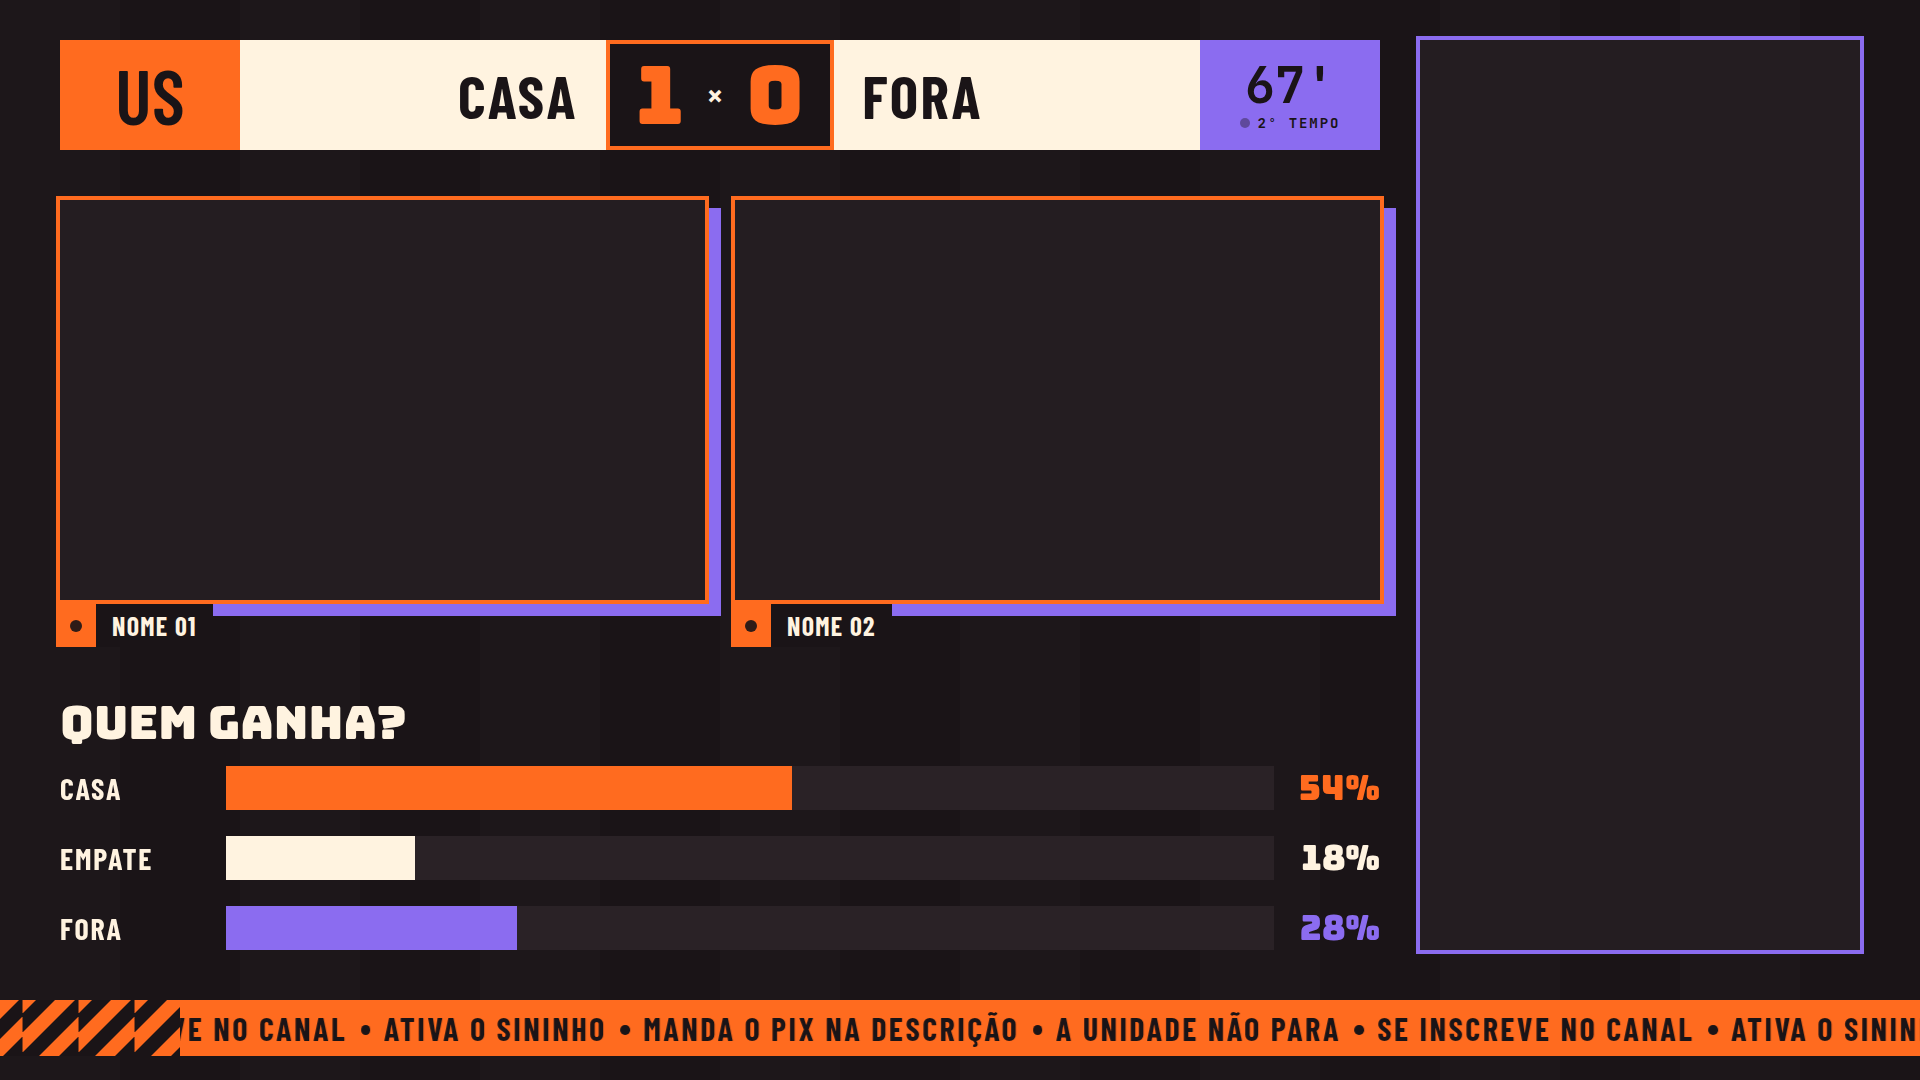
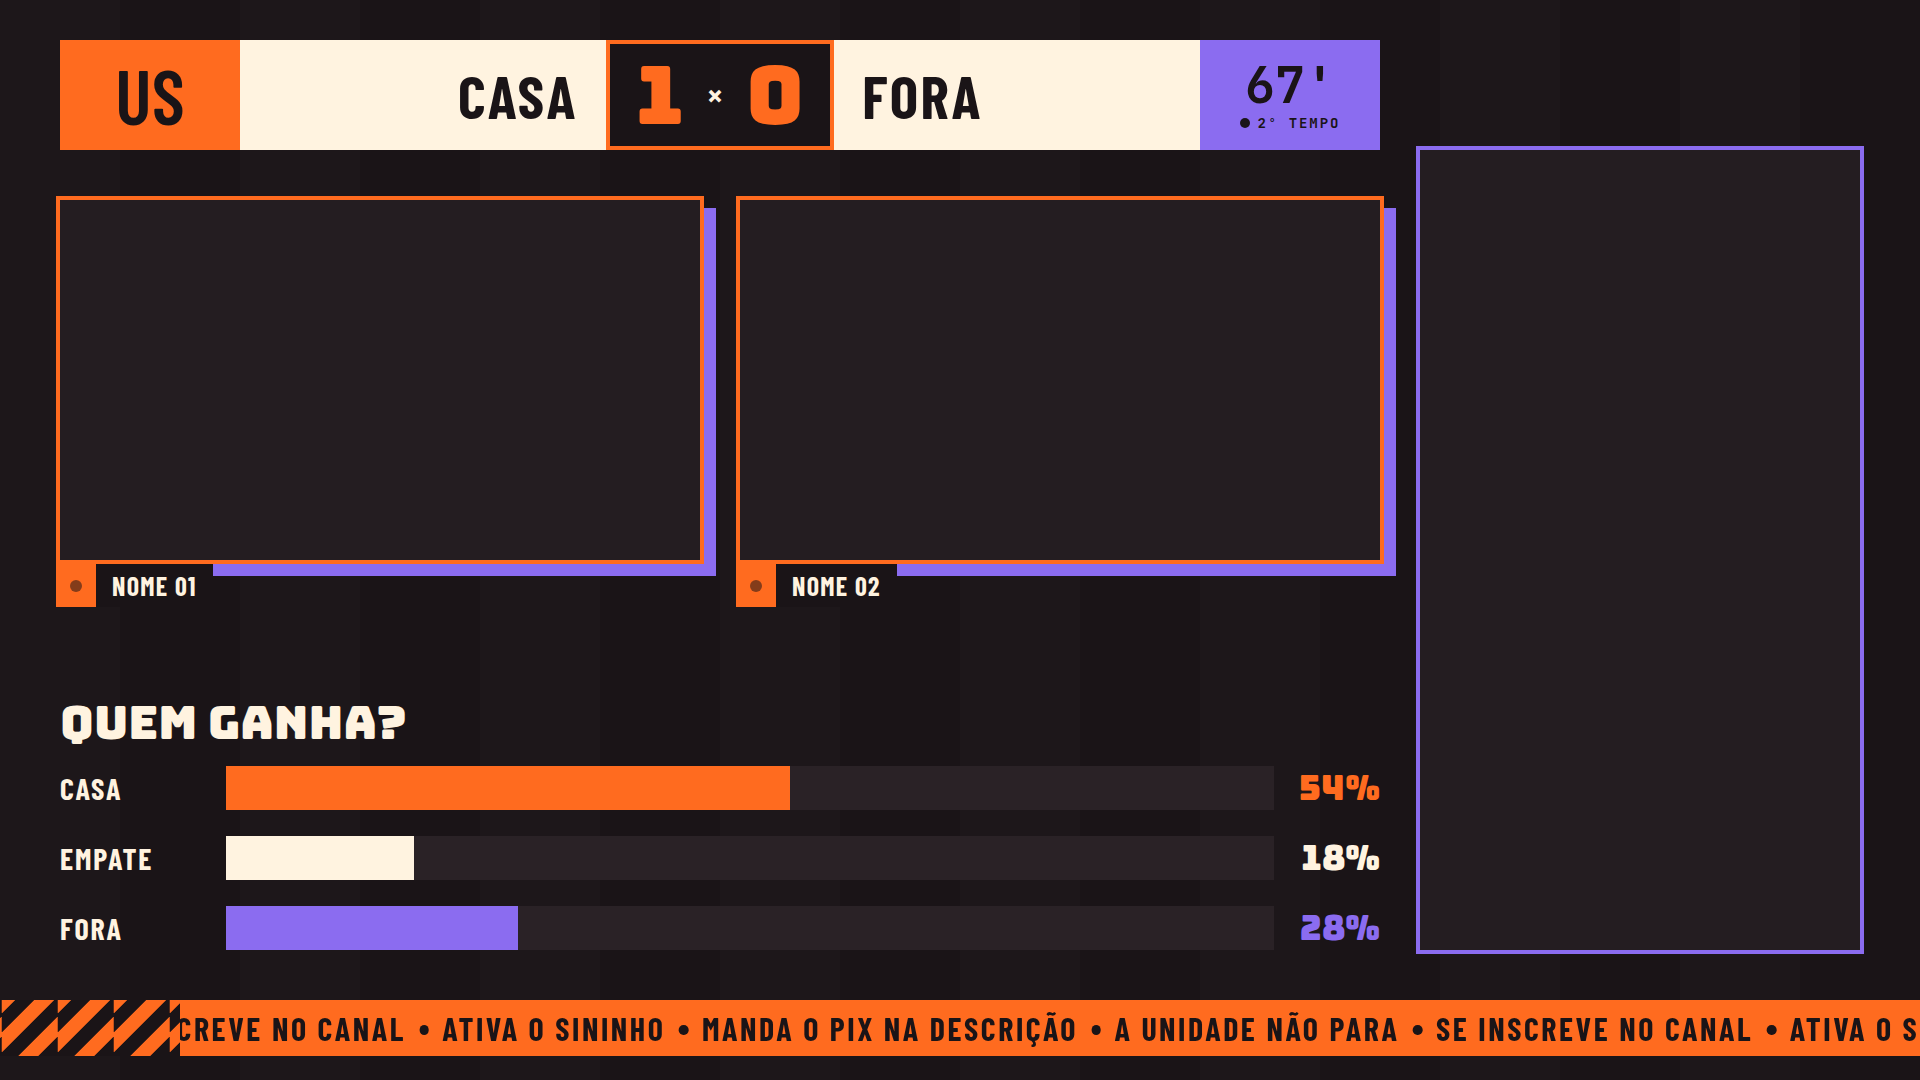
feat(telas): câmeras em 16:9 (Host, Futebol, Filme, Mesa) e chat 440×800 em Host, Futebol e Filme
Futebol sem enquete: câmeras 640×360 centralizadas (a etiqueta dentro da câmera sai).
Teste novo confere 16:9 exato, sem sobreposição, e chat 440×800 em todas as variações.

diff --git a/src/telas/proporcoes.test.tsx b/src/telas/proporcoes.test.tsx
@@ -1,0 +1,45 @@
+import { describe, expect, it } from 'vitest';
+import { render } from '@testing-library/react';
+import type { ReactElement } from 'react';
+import { ESTADO_PADRAO, type EstadoLive } from '../live/tipos';
+import { TelaHost } from './TelaHost';
+import { TelaFutebol } from './TelaFutebol';
+import { TelaFilme } from './TelaFilme';
+import { TelaMesa } from './TelaMesa';
+
+// Pedido do usuário: toda moldura de câmera por dentro em 16:9 (a webcam entra sem corte nem faixa)
+// e o chat de Host, Futebol e Filme com 440×800 por dentro.
+const px = (v: string) => Number(v.replace('px', ''));
+const medidas = (c: HTMLElement, sel: string) =>
+  [...c.querySelectorAll<HTMLElement>(sel)].map((e) => ({ w: px(e.style.width), h: px(e.style.height), x: px(e.style.left), y: px(e.style.top) }));
+
+const CASOS: [string, (e: EstadoLive) => ReactElement, Partial<EstadoLive>, number][] = [
+  ['host 1 câmera', (e) => <TelaHost estado={e} />, { hostCams: '1' }, 1],
+  ['host 2 câmeras', (e) => <TelaHost estado={e} />, { hostCams: '2' }, 2],
+  ['host 3 câmeras', (e) => <TelaHost estado={e} />, { hostCams: '3' }, 3],
+  ['futebol com enquete', (e) => <TelaFutebol estado={e} />, { enquete: { casa: 1, empate: 1, fora: 1, mostrar: true } }, 2],
+  ['futebol sem enquete', (e) => <TelaFutebol estado={e} />, { enquete: { casa: 1, empate: 1, fora: 1, mostrar: false } }, 2],
+  ['filme', (e) => <TelaFilme estado={e} />, {}, 4],
+  ['mesa', (e) => <TelaMesa estado={e} />, {}, 6],
+];
+
+describe('proporções', () => {
+  it.each(CASOS)('%s: câmeras em 16:9 exato, dentro da tela, sem sobrepor', (_, tela, extra, qtd) => {
+    const { container } = render(tela({ ...ESTADO_PADRAO, ...extra }));
+    const cams = medidas(container, '.t-slot');
+    expect(cams).toHaveLength(qtd);
+    for (const c of cams) {
+      expect(c.w * 9).toBe(c.h * 16);
+      expect(c.x + c.w).toBeLessThanOrEqual(1860);
+      expect(c.y + c.h).toBeLessThanOrEqual(1000);
+    }
+    for (const a of cams)
+      for (const b of cams)
+        if (a !== b) expect(a.x + a.w <= b.x || b.x + b.w <= a.x || a.y + a.h <= b.y || b.y + b.h <= a.y).toBe(true);
+  });
+
+  it.each(CASOS.filter(([n]) => !n.startsWith('mesa')))('%s: chat 440×800', (_, tela, extra) => {
+    const { container } = render(tela({ ...ESTADO_PADRAO, ...extra }));
+    expect(medidas(container, '.t-chat, .t-caixa-chat').map(({ w, h }) => `${w}×${h}`)).toEqual(['440×800']);
+  });
+});

diff --git a/src/telas/telas.css b/src/telas/telas.css
@@ -40,7 +40,6 @@
 .t-slot { position: absolute; background: #241d21; box-shadow: 0 0 0 4px #FF6B1F, 12px 12px 0 4px #8B6CF0; display: flex; align-items: center; justify-content: center; }
 .t-slot__placeholder { font: 700 18px/1 'JetBrains Mono', monospace; letter-spacing: 0.14em; color: #4a3f44; }
 .t-slot__tag { position: absolute; left: -4px; top: calc(100% + 4px); display: flex; align-items: stretch; }
-.t-slot__tag--dentro { left: 0; top: auto; bottom: 0; }
 .t-slot__led-box { width: 40px; background: #FF6B1F; display: flex; align-items: center; justify-content: center; }
 .t-slot__led { width: 12px; height: 12px; border-radius: 50%; background: #1A1417; animation: usBlink 1.4s ease-in-out infinite; }
 .t-slot__nome { background: #1A1417; color: #FFF3E0; font: 700 26px/1 'Barlow Condensed', sans-serif; letter-spacing: 0.05em; text-transform: uppercase; padding: 9px 16px 8px; }
@@ -135,7 +134,7 @@
 
 /* ===== Host (Telas Live linhas 104-153) ===== */
 .t-host__titulo { letter-spacing: .02em; }
-.t-host__pix { position: absolute; left: 1014px; top: 150px; width: 346px; height: 520px; box-sizing: border-box; background: #FF6B1F; padding: 28px 24px; display: flex; flex-direction: column; align-items: center; justify-content: space-between; }
+.t-host__pix { position: absolute; left: 1014px; top: 150px; width: 346px; height: 522px; box-sizing: border-box; background: #FF6B1F; padding: 28px 24px; display: flex; flex-direction: column; align-items: center; justify-content: space-between; }
 .t-host__pix-titulo { font: 400 38px/1.05 'Bungee', sans-serif; color: #1A1417; text-align: center; }
 .t-host__qr { flex-shrink: 0; width: 240px; height: 320px; background: #FFF3E0; box-shadow: 8px 8px 0 #1A1417; display: flex; align-items: center; justify-content: center; font: 700 15px/1 'JetBrains Mono', monospace; letter-spacing: .16em; color: #8a7f84; }
 .t-host__pix-link { font: 700 15px/1 'JetBrains Mono', monospace; letter-spacing: .16em; color: #1A1417; text-align: center; line-height: 1.35; }

diff --git a/src/telas/TelaFutebol.tsx b/src/telas/TelaFutebol.tsx
@@ -8,7 +8,8 @@ const pct = (v: number) => Math.min(100, Math.max(0, Number(v) || 0)) + '%';
 
 export function TelaFutebol({ estado, previa }: PropsTela) {
   const { enquete } = estado;
-  const alturaCam = enquete.mostrar ? 400 : 750;
+  // câmeras 16:9; sem a enquete ficam centralizadas no espaço que ela deixa
+  const yCam = enquete.mostrar ? 200 : 370;
   const opcoes: [string, number, string, string][] = [
     [estado.timeA, enquete.casa, '#FF6B1F', '0s'],
     ['EMPATE', enquete.empate, '#FFF3E0', '.15s'],
@@ -35,10 +36,8 @@ export function TelaFutebol({ estado, previa }: PropsTela) {
           </div>
         </div>
       </div>
-      {/* sem a enquete, as câmeras ocupam a área toda até 950 (em pé, não 16:9: decisão do usuário)
-          e a etiqueta de nome entra no quadro para não encostar no letreiro */}
-      <SlotCamera nome={estado.nomes[0] || 'NOME 01'} w={645} h={alturaCam} x={60} y={200} previa={previa} etiquetaDentro={!enquete.mostrar} />
-      <SlotCamera nome={estado.nomes[1] || 'NOME 02'} w={645} h={alturaCam} x={735} y={200} previa={previa} etiquetaDentro={!enquete.mostrar} />
+      <SlotCamera nome={estado.nomes[0] || 'NOME 01'} w={640} h={360} x={60} y={yCam} previa={previa} />
+      <SlotCamera nome={estado.nomes[1] || 'NOME 02'} w={640} h={360} x={740} y={yCam} previa={previa} />
       {enquete.mostrar && (
         <div className="t-futebol__enquete">
           <div className="t-futebol__enquete-titulo">QUEM GANHA?</div>
@@ -55,8 +54,8 @@ export function TelaFutebol({ estado, previa }: PropsTela) {
           ))}
         </div>
       )}
-      <div className="t-caixa-chat" style={{ left: 1420, top: 40, width: 440, height: 910 }}>
-        {previa && 'CHAT · 440×910'}
+      <div className="t-caixa-chat" style={{ left: 1420, top: 150, width: 440, height: 800 }}>
+        {previa && 'CHAT · 440×800'}
       </div>
       <FaixaTicker ticker={estado.ticker} />
     </div>

diff --git a/src/telas/telas-jogo.test.tsx b/src/telas/telas-jogo.test.tsx
@@ -30,23 +30,14 @@ describe('futebol e filme', () => {
     expect(screen.queryByText(/VOTA NO CHAT/)).toBeNull();
   });
 
-  it('sem enquete as 2 câmeras ocupam 60,200 a 1380,950; com enquete voltam a 645×400', () => {
+  it('câmeras 16:9 (640×360); sem enquete descem para o meio do espaço livre', () => {
     const cams = (c: HTMLElement) =>
       [...c.querySelectorAll<HTMLElement>('.t-slot')].map((e) => [e.style.left, e.style.top, e.style.width, e.style.height].join(' '));
     const semEnquete = { ...ESTADO_PADRAO, enquete: { casa: 0, empate: 0, fora: 0, mostrar: false } };
     const { container, rerender } = render(<TelaFutebol estado={semEnquete} />);
-    expect(cams(container)).toEqual(['60px 200px 645px 750px', '735px 200px 645px 750px']);
+    expect(cams(container)).toEqual(['60px 370px 640px 360px', '740px 370px 640px 360px']);
     rerender(<TelaFutebol estado={{ ...semEnquete, enquete: { ...semEnquete.enquete, mostrar: true } }} />);
-    expect(cams(container)).toEqual(['60px 200px 645px 400px', '735px 200px 645px 400px']);
-  });
-
-  it('sem enquete a etiqueta de nome fica dentro da câmera; com enquete, embaixo', () => {
-    const dentro = (c: HTMLElement) => c.querySelectorAll('.t-slot__tag--dentro').length;
-    const semEnquete = { ...ESTADO_PADRAO, enquete: { casa: 0, empate: 0, fora: 0, mostrar: false } };
-    const { container, rerender } = render(<TelaFutebol estado={semEnquete} />);
-    expect(dentro(container)).toBe(2);
-    rerender(<TelaFutebol estado={{ ...semEnquete, enquete: { ...semEnquete.enquete, mostrar: true } }} />);
-    expect(dentro(container)).toBe(0);
+    expect(cams(container)).toEqual(['60px 200px 640px 360px', '740px 200px 640px 360px']);
   });
 
   it('Filme mostra 4 câmeras, filme e episódio', () => {

diff --git a/src/telas/TelaHost.tsx b/src/telas/TelaHost.tsx
@@ -23,7 +23,7 @@ export function TelaHost({ estado, previa }: PropsTela) {
 
       {estado.hostCams === '1' && (
         <>
-          <SlotCamera nome={n(0)} w={924} h={520} x={60} y={150} previa={previa} />
+          <SlotCamera nome={n(0)} w={928} h={522} x={60} y={150} previa={previa} />
           <div className="t-host__pix">
             <div className="t-host__pix-titulo">
               MANDA
@@ -40,15 +40,16 @@ export function TelaHost({ estado, previa }: PropsTela) {
       )}
       {estado.hostCams === '2' && (
         <>
-          <SlotCamera nome={n(0)} w={635} h={520} x={60} y={150} previa={previa} />
-          <SlotCamera nome={n(1)} w={635} h={520} x={725} y={150} previa={previa} />
+          {/* câmeras 16:9; centralizadas na faixa entre o topo e os cards */}
+          <SlotCamera nome={n(0)} w={640} h={360} x={60} y={240} previa={previa} />
+          <SlotCamera nome={n(1)} w={640} h={360} x={740} y={240} previa={previa} />
         </>
       )}
       {estado.hostCams === '3' && (
         <>
-          <SlotCamera nome={n(0)} w={780} h={520} x={60} y={150} previa={previa} />
-          <SlotCamera nome={n(1)} w={490} h={235} x={870} y={150} previa={previa} />
-          <SlotCamera nome={n(2)} w={490} h={235} x={870} y={435} previa={previa} />
+          <SlotCamera nome={n(0)} w={896} h={504} x={60} y={150} previa={previa} />
+          <SlotCamera nome={n(1)} w={400} h={225} x={980} y={150} previa={previa} />
+          <SlotCamera nome={n(2)} w={400} h={225} x={980} y={429} previa={previa} />
         </>
       )}
 

diff --git a/src/telas/TelaFilme.tsx b/src/telas/TelaFilme.tsx
@@ -2,8 +2,8 @@ import type { PropsTela } from './tipos';
 import { SlotCamera } from './SlotCamera';
 
 const POSICOES: [number, number][] = [
-  [60, 130], [735, 130],
-  [60, 540], [735, 540],
+  [60, 130], [756, 130],
+  [60, 550], [756, 550],
 ];
 
 export function TelaFilme({ estado, previa }: PropsTela) {
@@ -19,10 +19,10 @@ export function TelaFilme({ estado, previa }: PropsTela) {
         <div className="t-filme__aviso">ASSISTINDO JUNTO · SEM SPOILER NO CHAT</div>
       </div>
       {POSICOES.map(([x, y], i) => (
-        <SlotCamera key={i} nome={estado.nomes[i] || `NOME 0${i + 1}`} w={645} h={340} x={x} y={y} previa={previa} />
+        <SlotCamera key={i} nome={estado.nomes[i] || `NOME 0${i + 1}`} w={624} h={351} x={x} y={y} previa={previa} />
       ))}
-      <div className="t-caixa-chat" style={{ left: 1420, top: 130, width: 440, height: 750 }}>
-        {previa && 'CHAT · 440×750'}
+      <div className="t-caixa-chat" style={{ left: 1420, top: 130, width: 440, height: 800 }}>
+        {previa && 'CHAT · 440×800'}
       </div>
       <div className="t-filme__rodape">
         <div className="t-filme__cartaz">EM CARTAZ</div>

diff --git a/src/telas/TelaMesa.tsx b/src/telas/TelaMesa.tsx
@@ -4,8 +4,8 @@ import { FaixaTicker } from './FaixaTicker';
 import { SeloAoVivo } from './Pecas';
 
 const POSICOES: [number, number][] = [
-  [60, 160], [670, 160], [1280, 160],
-  [60, 570], [670, 570], [1280, 570],
+  [62, 160], [672, 160], [1282, 160],
+  [62, 570], [672, 570], [1282, 570],
 ];
 
 export function TelaMesa({ estado, previa }: PropsTela) {
@@ -18,7 +18,7 @@ export function TelaMesa({ estado, previa }: PropsTela) {
       </div>
       <SeloAoVivo className="t-mesa__aovivo" />
       {POSICOES.map(([x, y], i) => (
-        <SlotCamera key={i} nome={estado.nomes[i] || `NOME 0${i + 1}`} w={580} h={326} x={x} y={y} previa={previa} />
+        <SlotCamera key={i} nome={estado.nomes[i] || `NOME 0${i + 1}`} w={576} h={324} x={x} y={y} previa={previa} />
       ))}
       <FaixaTicker ticker={estado.ticker} />
     </div>

diff --git a/src/telas/SlotCamera.tsx b/src/telas/SlotCamera.tsx
@@ -5,15 +5,13 @@ interface Props {
   x: number;
   y: number;
   previa?: boolean;
-  /** etiqueta no canto de baixo, dentro do quadro (quando não cabe embaixo) */
-  etiquetaDentro?: boolean;
 }
 
-export function SlotCamera({ nome, w, h, x, y, previa, etiquetaDentro }: Props) {
+export function SlotCamera({ nome, w, h, x, y, previa }: Props) {
   return (
     <div className="t-slot" style={{ left: x, top: y, width: w, height: h }}>
       {previa && <div className="t-slot__placeholder">CÂMERA · {w}×{h}</div>}
-      <div className={etiquetaDentro ? 't-slot__tag t-slot__tag--dentro' : 't-slot__tag'}>
+      <div className="t-slot__tag">
         <div className="t-slot__led-box">
           <div className="t-slot__led" />
         </div>

diff --git a/README.md b/README.md
@@ -39,16 +39,16 @@ Depois crie o login: Authentication → Users → **Add user → Create new user
 
 1. Crie uma cena para cada tela e adicione uma fonte **Navegador** com `https://SEU-DOMINIO.vercel.app/tela/ID` (troque ID por `inicio`, `host`, `futebol`, `filme`, `mesa`, `intervalo`, `lower`, `tecnico` ou `fim`).
 2. Largura 1920, altura 1080. Deixe **desmarcado** "Atualizar navegador quando a cena ficar ativa": o que muda no painel chega sozinho, e os relógios seguem a hora do servidor (abrir a fonte no meio da contagem mostra o mesmo tempo das outras).
-3. Câmeras, chat e QR code do PIX entram como fontes **acima** da tela, encaixadas nas molduras. No OBS as molduras aparecem vazias (o texto "CÂMERA · 924×520" só aparece na prévia do painel). Tamanhos e posições (em 1920×1080):
+3. Câmeras, chat e QR code do PIX entram como fontes **acima** da tela, encaixadas nas molduras. No OBS as molduras aparecem vazias (o texto "CÂMERA · 928×522" só aparece na prévia do painel). Tamanhos e posições (em 1920×1080):
 
-   | Tela | Câmeras | Chat |
+   | Tela | Câmeras (todas 16:9) | Chat |
    |---|---|---|
-   | Host, 1 câmera | 924×520 em (60,150); QR 214×214 dentro da caixa laranja | 440×800 em (1420,150) |
-   | Host, 2 câmeras | 635×520 em (60,150) e (725,150) | 440×800 em (1420,150) |
-   | Host, 3 câmeras | 780×520 em (60,150); 490×235 em (870,150) e (870,435) | 440×800 em (1420,150) |
-   | Futebol | 645×400 em (60,200) e (735,200); sem enquete, 645×750 | 440×910 em (1420,40) |
-   | Filme/série | 645×340 em (60,130), (735,130), (60,540), (735,540) | 440×750 em (1420,130) |
-   | Mesa redonda | 580×326 em (60,160), (670,160), (1280,160), (60,570), (670,570), (1280,570) | — |
+   | Host, 1 câmera | 928×522 em (60,150); QR 240×320 dentro da caixa laranja | 440×800 em (1420,150) |
+   | Host, 2 câmeras | 640×360 em (60,240) e (740,240) | 440×800 em (1420,150) |
+   | Host, 3 câmeras | 896×504 em (60,150); 400×225 em (980,150) e (980,429) | 440×800 em (1420,150) |
+   | Futebol | 640×360 em (60,200) e (740,200); sem enquete, em (60,370) e (740,370) | 440×800 em (1420,150) |
+   | Filme/série | 624×351 em (60,130), (756,130), (60,550), (756,550) | 440×800 em (1420,130) |
+   | Mesa redonda | 576×324 em (62,160), (672,160), (1282,160), (62,570), (672,570), (1282,570) | — |
 
 4. **Alerta de PIX:** é o widget do próprio LivePix (fonte Navegador com o link do LivePix), no topo das cenas. O painel só controla ele (ver 4.1).
 5. **Lower third** (`/tela/lower`): entra uma vez e fica; quem mostra/esconde é o OBS (atalho ou Modo Estúdio).
@@ -73,7 +73,7 @@ LIMPAR FILA pede confirmação ("LIMPAR FILA?") antes de apagar a fila.
 1. Instale a extensão do Social Stream Ninja e abra os chats da live (YouTube, Twitch, TikTok) no navegador, como ela pede. Anote o **ID da sessão** que ela mostra.
 2. No popup da extensão, em **⚙ Mechanics - Connections & Integrations**, ligue **"📡 Send chat messages to API server (for external listeners)"**. No dashboard da extensão ela aparece como "Chat to External Apps (ch 3/4)" e deve ficar *Connected*. Não precisa ligar o "Remote Control API" (controle remoto da extensão): deixe desligado.
    - Com essa opção ligada, a extensão para de mandar o chat para o dock/overlay próprio do Social Stream Ninja. Se usar os dois, ligue também a opção logo abaixo ("also send API-routed chat to normal dock/overlay connections").
-3. No OBS, fonte **Navegador** `https://SEU-DOMINIO.vercel.app/chat?sessao=ID`, no tamanho da área do chat de cada cena (440×800 no Host, 440×910 no Futebol, 440×750 no Filme). As mensagens empilham de baixo pra cima.
+3. No OBS, fonte **Navegador** `https://SEU-DOMINIO.vercel.app/chat?sessao=ID`, no tamanho da área do chat de cada cena (440×800 em Host, Futebol e Filme). As mensagens empilham de baixo pra cima.
 4. No painel, na primeira vez em cada navegador, cole o mesmo ID no bloco CHAT e clique CONECTAR (fica guardado só naquele navegador; TROCAR no rodapé muda). DESTACAR fixa a mensagem no topo do chat no OBS até alguém clicar TIRAR.
 
 O ID da sessão fica só na URL do OBS e no navegador de quem usa o painel, nunca no estado da live (que as telas leem sem login) nem no código. Não mostre a URL da fonte na live. O servidor do Social Stream Ninja não guarda histórico: quem abre agora vê só o que chegar dali em diante.

diff --git a/docs/superpowers/specs/2026-09-29-chat-parte-3-design.md b/docs/superpowers/specs/2026-09-29-chat-parte-3-design.md
@@ -18,7 +18,7 @@ O ID dá acesso ao controle remoto da extensão, então **não vai para o estado
 
 ## Overlay `/chat`
 
-- Fundo transparente, ocupa a fonte inteira (o OBS define o tamanho: 440×800 Host, 440×910 Futebol, 440×750 Filme). Mensagens empilham de baixo pra cima, faixa listrada de 8 px embaixo, como na referência. Guarda as últimas 9.
+- Fundo transparente, ocupa a fonte inteira (o OBS define o tamanho: 440×800 em Host, Futebol e Filme). Mensagens empilham de baixo pra cima, faixa listrada de 8 px embaixo, como na referência. Guarda as últimas 9.
 - Visual das mensagens idêntico à referência (etiqueta com o nome, MOD, bolinha de membro, superchat, novo membro).
 - Tag da plataforma: chip escuro dentro da etiqueta do nome, com a sigla na cor da plataforma (YT laranja, TW violeta, TT creme), no mesmo estilo do chip MOD.
 - Destaque (`chatPin` do estado): cartão violeta fixo no topo, no estilo do cartão de novo membro, até alguém clicar TIRAR. **Não existe na referência**: decisão nossa, mostrar no print.

diff --git a/TELAS-NOVAS.md b/TELAS-NOVAS.md
@@ -49,7 +49,8 @@ Lower third: `funcao`
 Fim: `proximo`
 
 Áreas reservadas pra outras fontes do OBS, que as telas não desenham:
-- chat: 440×800 no Host, 440×910 no Futebol, 440×750 no Filme
+- chat: 440×800 no Host, no Futebol e no Filme (mudado a pedido do usuário em 2026-09-29)
+- câmeras: todas em 16:9 por dentro (idem)
 - QR code do PIX: 214×214 no Host com 1 câmera
 
 ## 2. Painel ADM
